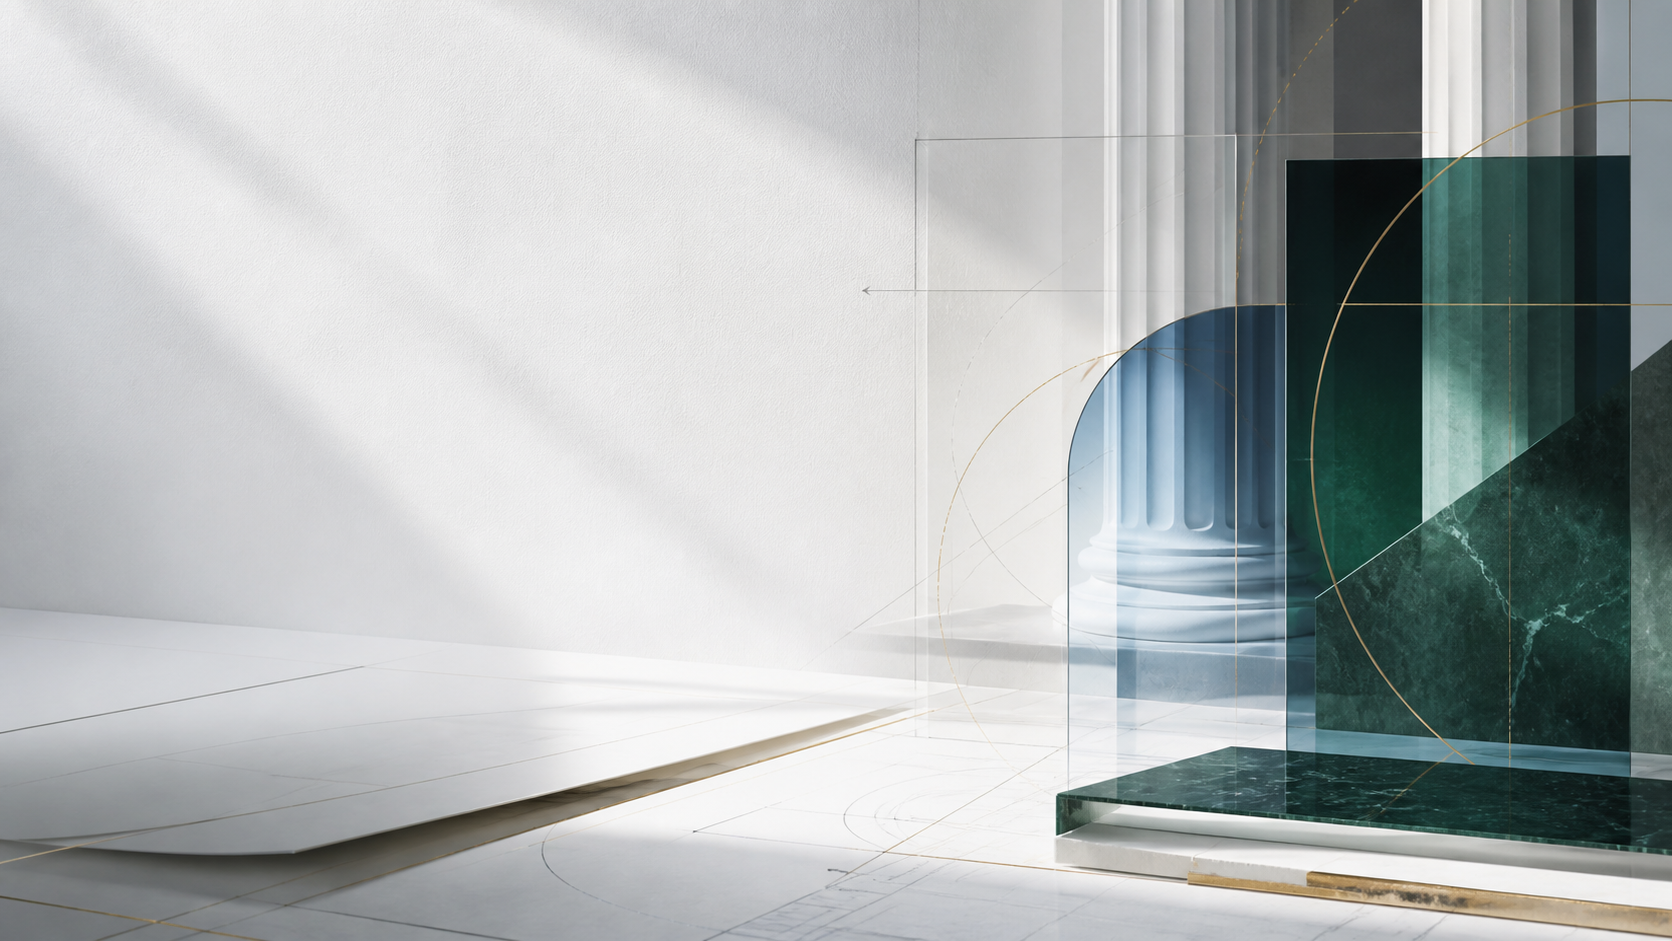
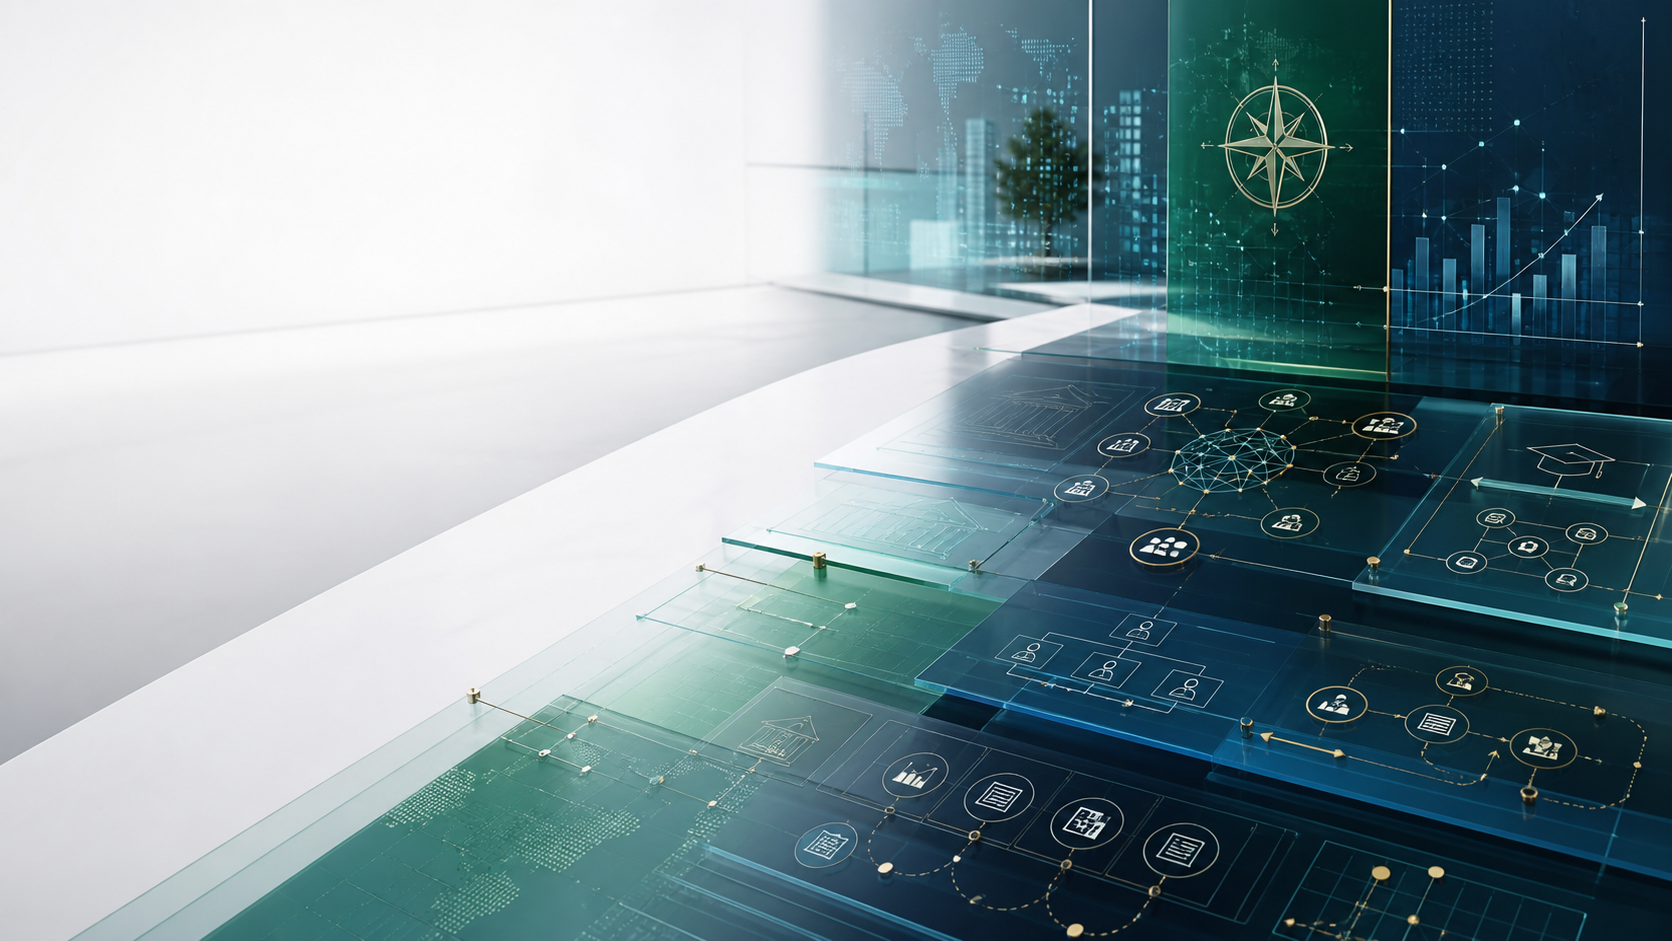
fix: actualizar hero con enfoque IA estrategia digital

diff --git a/app/globals.css b/app/globals.css
@@ -253,18 +253,19 @@ h1 {
   color: var(--white);
   display: grid;
   font-family: var(--serif);
-  font-size: clamp(2.5rem, 5.6vw, 5.7rem);
-  gap: 24px;
-  grid-template-columns: 74px 1fr auto;
-  letter-spacing: 0.08em;
+  font-size: clamp(2.35rem, 4.4vw, 4.6rem);
+  gap: clamp(16px, 2.4vw, 30px);
+  grid-template-columns: 64px minmax(0, 1fr) 34px;
+  letter-spacing: 0.04em;
   min-height: 310px;
-  padding: clamp(28px, 5vw, 72px);
+  overflow: hidden;
+  padding: clamp(28px, 4vw, 58px);
   transition: background 260ms ease, letter-spacing 260ms ease;
 }
 
 .route-card:hover {
   background: rgba(0, 0, 0, 0.16);
-  letter-spacing: 0.11em;
+  letter-spacing: 0.055em;
 }
 
 .route-empresas {
@@ -648,7 +649,7 @@ textarea {
   }
 
   .route-card {
-    font-size: clamp(2.2rem, 12vw, 4.2rem);
+    font-size: clamp(2rem, 10vw, 3.6rem);
     grid-template-columns: 58px 1fr auto;
     min-height: 230px;
   }
